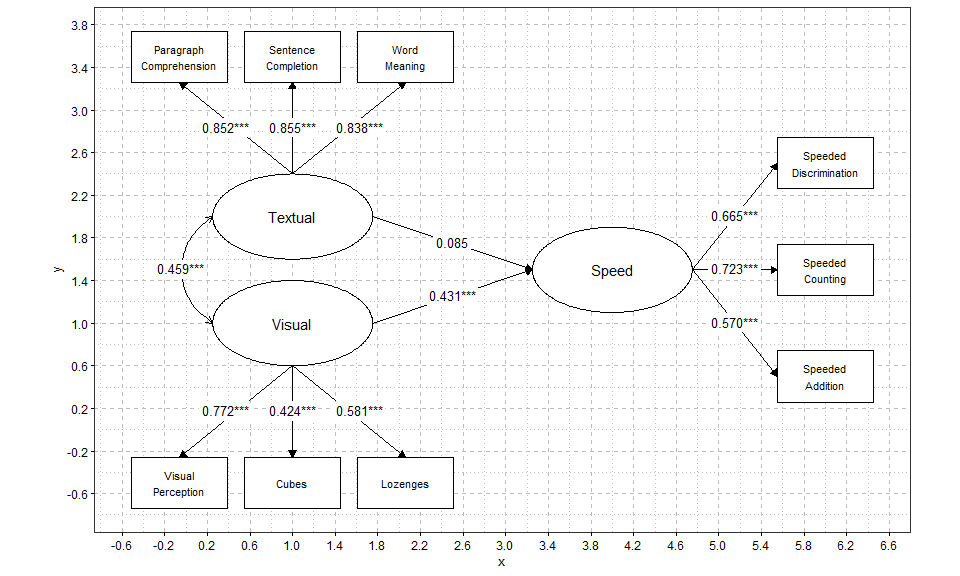
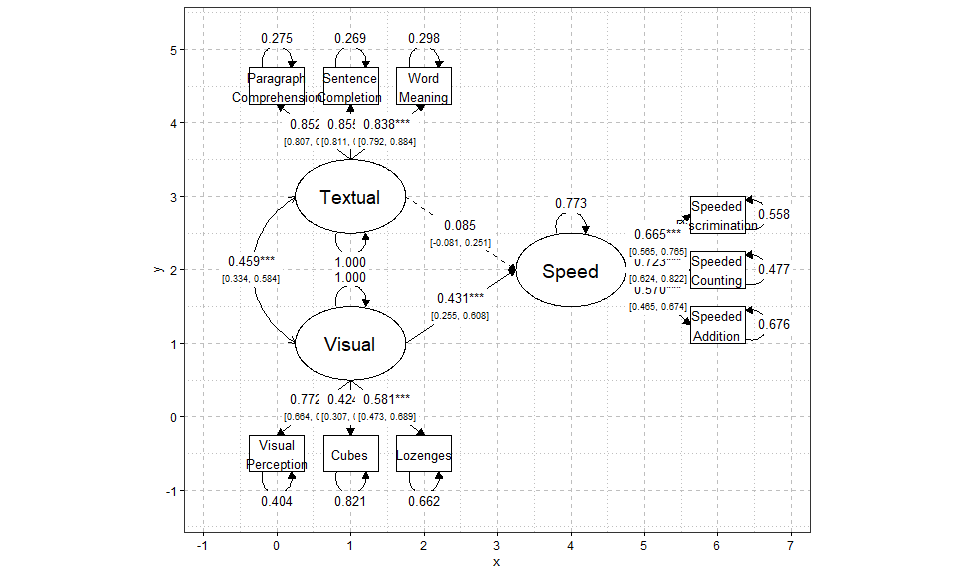
Read me

diff --git a/README.md b/README.md
@@ -7,31 +7,33 @@
 
 <!-- badges: end -->
 
-diy.sem.plot allows you to manually plot fully customisable path
-diagrams for structural equation models (SEM) using the diyPaths()
+::{diy.sem.plot} allows you to manually plot fully customisable path
+diagrams for structural equation models (SEM) using the `diyPaths()`
 function. It avoids the inflexibility of automated SEM plotting tools
 and the tedium of drawing diagrams in external applications.
 
 You map out where nodes go using simple coordinates and specify the
-attachment points (sides of the relevant nodes) where each path begins
-and ends. A range of fine-tuning options are included, facilitating the
+attachment points on the perimeter of each node where paths begin and
+end. A range of fine-tuning options are included, facilitating the
 creation of a path diagram exactly as you envision it, entirely within
 R.
 
-Currently diy.sem.plot only works with models fitted with `lavaan`.
+Currently diy.sem.plot only works for lavaan fitted models.
 
 ## Installation
 
 Run the following to install the development version of the package.
 
 ``` r
-remotes::install_github("snagy86/diy.sem.plot")
+install.packages("pak")
+pak::pkg_install("snagy86/diy.sem.plot")
 ```
 
 ## Example
 
 Below is a brief example of what the function is capable of. More
-examples can be found in the vignette for the package.
+examples and full explanation of work flow can be found in the package’s
+vignette.
 
 ``` r
 
@@ -57,71 +59,102 @@ sem_model <- '
 
 # fit the model
 
-fit <- sem(sem_model, data = HolzingerSwineford1939)
+fit_sem <- sem(sem_model, data = HolzingerSwineford1939)
 
 # specify the node position, this was done iteratively with show_grid to help with layout.
-
-node_positions <- list(
+node_list <- list(
    # main latent variable structure
    node("visual", x = 1, y = 1, label = "Visual"),
-   node("textual", x = 1, y = 2, label = "Textual"),
-   node("speed", x = 4, y = 1.5, label = "Speed"),
+   node("textual", x = 1, y = 3, label = "Textual"),
+   node("speed", x = 4, y = 2, label = "Speed"),
 
    # observed variables that visual perception ability loads onto
-   node("x1", x = -0.06, y = -0.5, label = "Visual\nPerception"), # \n creates a line break
+   node("x1", x = 0, y = -0.5, label = "Visual\nPerception"),
    node("x2", x = 1, y = -0.5, label = "Cubes"),
-   node("x3", x = 2.06, y = -0.5, label = "Lozenges"),
+   node("x3", x = 2, y = -0.5, label = "Lozenges"),
 
    # observed variables that textual ability loads onto
-   node("x4", x = -0.06, y = 3.5, label = "Paragraph\nComprehension"),
-   node("x5", x = 1, y = 3.5, label = "Sentence\nCompletion"),
-   node("x6", x = 2.06, y = 3.5, label = "Word\nMeaning"),
+   node("x4", x = 0, y = 4.5, label = "Paragraph\nComprehension"),
+   node("x5", x = 1, y = 4.5, label = "Sentence\nCompletion"),
+   node("x6", x = 2, y = 4.5, label = "Word\nMeaning"),
 
    # observed variables that speeded cognitive processing loads onto
-   node("x7", x = 6, y = 0.5, label = "Speeded\nAddition"),
-   node("x8", x = 6, y = 1.5, label = "Speeded\nCounting"),
-   node("x9", x = 6, y = 2.5, label = "Speeded\nDiscrimination")
+   node("x7", x = 6, y = 1.25, label = "Speeded\nAddition"),
+   node("x8", x = 6, y = 2, label = "Speeded\nCounting"),
+   node("x9", x = 6, y = 2.75, label = "Speeded\nDiscrimination")
 )
 
 # Specify the paths
 
-path_positions <- list(
-   path(from = "visual", to = "x1", side_from = "bottom", side_to = "top", nudge_text_x = -0.1), # nudging to stop white space overlap
+path_list <- list(
+  #Structural 
+    path(from = "visual",  to = "speed", side_from = "right", side_to = "left"),
+    #variance loop visual
+     path(from = "visual",  to = "visual", variance_position = "top"),
+   path(from = "textual", to = "speed", side_from = "right", side_to = "left"),
+   path(from = "visual",  to = "textual", side_from = "left", side_to = "left", cov_curve = -0.6),
+  
+   #visual loadings
+   path(from = "visual", to = "x1", side_from = "bottom", side_to = "top"), 
    path(from = "visual", to = "x2", side_from = "bottom", side_to = "top"),
-   path(from = "visual", to = "x3", side_from = "bottom", side_to = "top", nudge_text_x = 0.1),
+   path(from = "visual", to = "x3", side_from = "bottom", side_to = "top"),
 
-   path(from = "textual", to = "x4", side_from = "top", side_to = "bottom", nudge_text_x = -0.1),
+   #textual loadings
+   path(from = "textual", to = "x4", side_from = "top", side_to = "bottom"),
    path(from = "textual", to = "x5", side_from = "top", side_to = "bottom"),
-   path(from = "textual", to = "x6", side_from = "top", side_to = "bottom", nudge_text_x = 0.1),
+   path(from = "textual", to = "x6", side_from = "top", side_to = "bottom"),
 
+   #speed loadings
    path(from = "speed",   to = "x7", side_from = "right", side_to = "left"),
    path(from = "speed",   to = "x8", side_from = "right", side_to = "left"),
    path(from = "speed",   to = "x9", side_from = "right", side_to = "left"),
+   
+  #latent variance/residualal
+   path(from = "textual", to = "textual", variance_position = "bottom"),
+   path(from = "visual", to = "visual", variance_position = "top"),
+   path(from = "speed", to = "speed", variance_position = "top"),
+  #Measurement Variances 
+   path(from = "x1", to = "x1", variance_position = "bottom"),
+   path(from = "x2", to = "x2", variance_position = "bottom"),
+   path(from = "x3", to = "x3", variance_position = "bottom"),
 
-   path(from = "visual",  to = "speed", side_from = "right", side_to = "left"),
-   path(from = "textual", to = "speed", side_from = "right", side_to = "left"),
+   path(from = "x4", to = "x4", variance_position = "top"),
+   path(from = "x5", to = "x5", variance_position = "top"),
+   path(from = "x6", to = "x6", variance_position = "top"),
 
-   path(from = "visual",  to = "textual", side_from = "left", side_to = "left", cov_curve = -0.6)
+   path(from = "x7", to = "x7", variance_position = "right"),
+   path(from = "x8", to = "x8", variance_position = "right"),
+   path(from = "x9", to = "x9", variance_position = "right")
+  
 )
 
 # creating the diagram
 
 p <- diyPaths(
-   fit = fit,
-   node_positions = node_positions,
-   path_positions = path_positions,
+   fit = fit_sem,
+   node_positions = node_list,
+   path_positions = path_list,
    standardised = TRUE,
+   sig_linetype = TRUE,
+   observed_node_size_adjust = 0.5, 
+   observed_node_text_size = 3.5,
+   latent_node_text_size = 5,
    est_stars = TRUE,
-   observed_variable_size_adjust = 0.6, # making observed variables smaller than latent
-   observed_node_text_size = 3,
+   est_ci = TRUE,
+   show_variances = TRUE,
    show_grid = TRUE,
-   grid_axis_scale = 0.4,
-   margin_x = -0,
-   margin_y_bottom = -0,
-   margin_y_top = -0
+   look_up_table = TRUE
 )
 
 print(p)
+#> $plot
 ```
 
 <img src="man/figures/README-example1-1.png" alt="" width="100%" />
+
+    #> 
+    #> $look_up_table
+    #>       type width height text_size
+    #> 1   latent  1.50    1.0       5.0
+    #> 2 observed  0.75    0.5       3.5
+    #> 3     path    NA     NA       3.5
